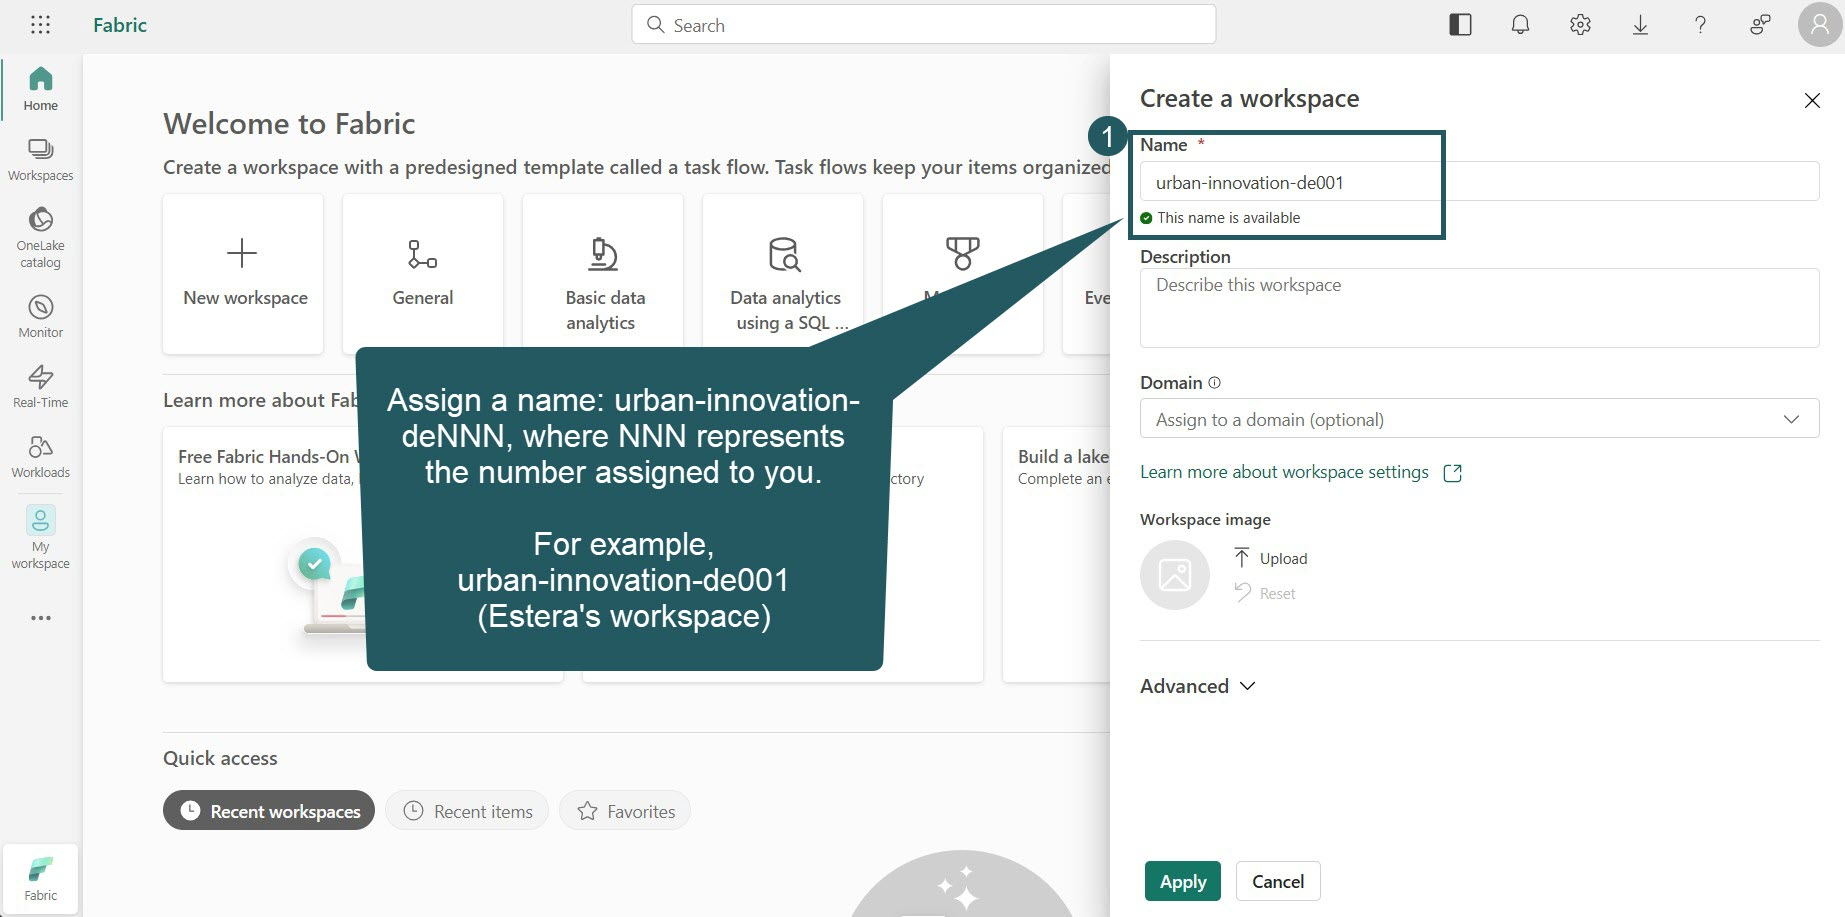
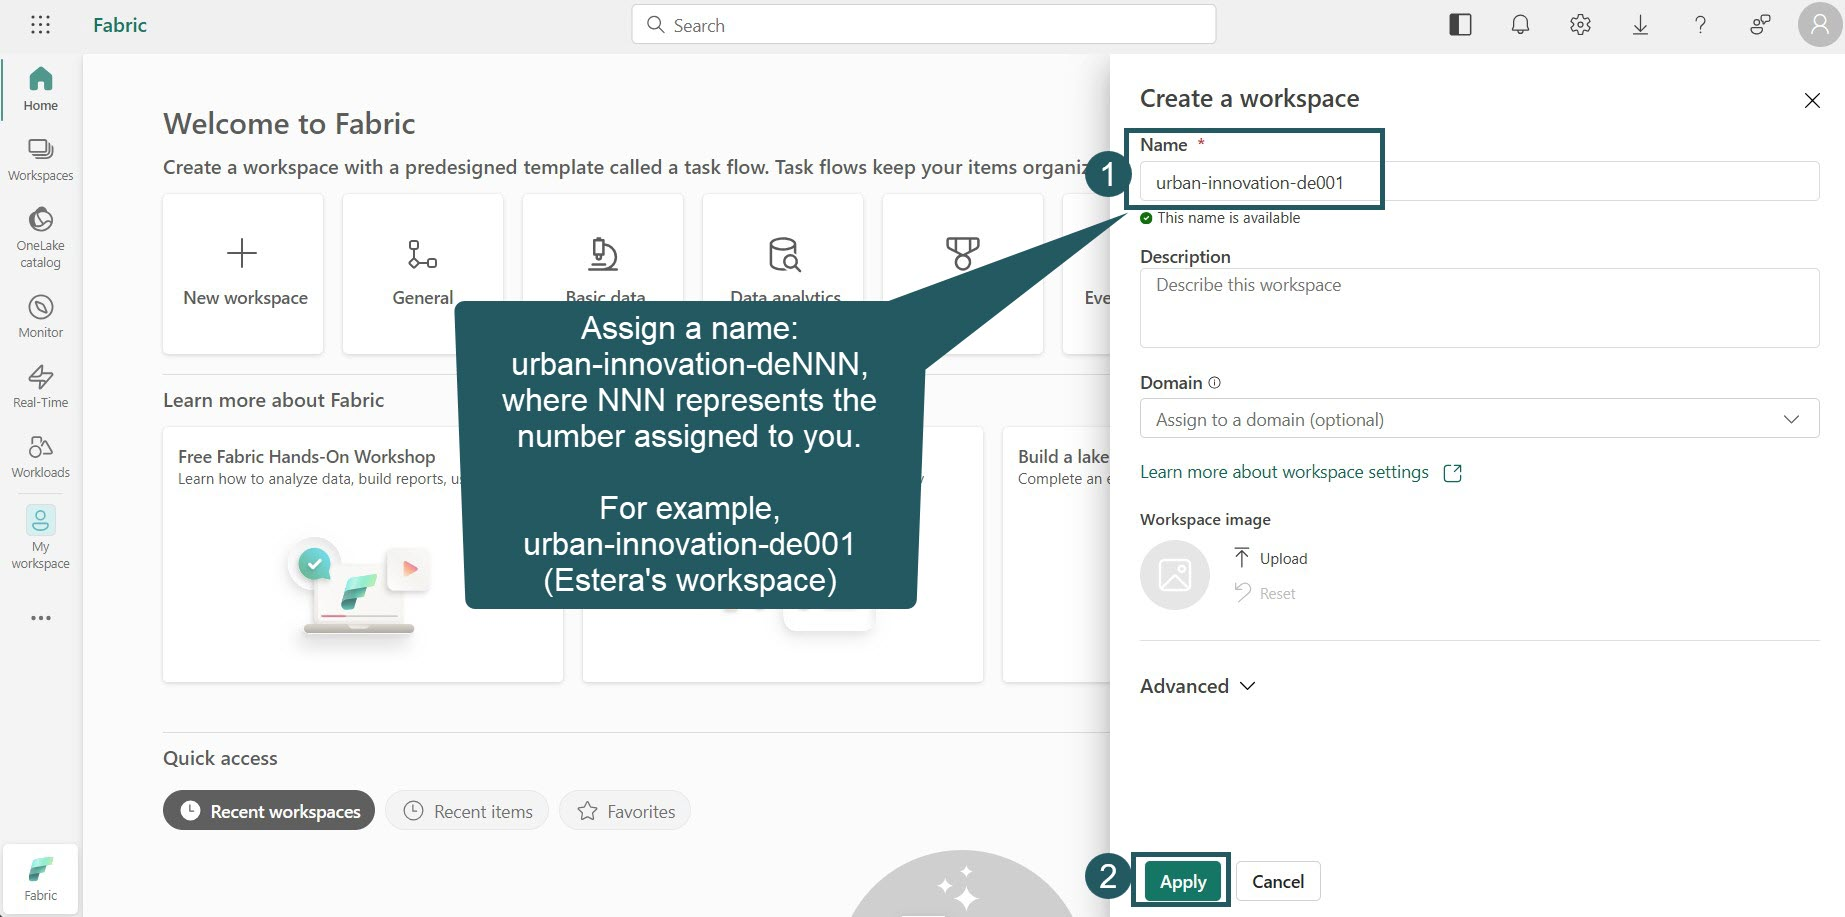
Update login instructions and enhance clarity in setup guide

diff --git a/exercise-0-setup/start.md b/exercise-0-setup/start.md
@@ -29,11 +29,11 @@ As per Tenants' policy, setting up MFA is required. However, you can defer this 
 ![Login](../screenshots/start/new/10.jpg)
 
 ## 6. Welcome to Microsoft Fabric
-You have successfully logged in to Microsoft Fabric!
+You have successfully logged in to Microsoft Fabric! Click the Microsoft Fabric icon in the bottom-left corner to explore Fabric and Power BI switcher.  
 ![Login](../screenshots/start/new/4.jpg)
 
 ## 7. Explore Switcher
-Click the Microsoft Fabric icon in the bottom-left corner to explore Fabric and Power BI switcher.  
+Explore Fabric and Power BI switcher.  
 ![Login](../screenshots/start/new/5.jpg)
 
 ## 8. Explore Help Options
